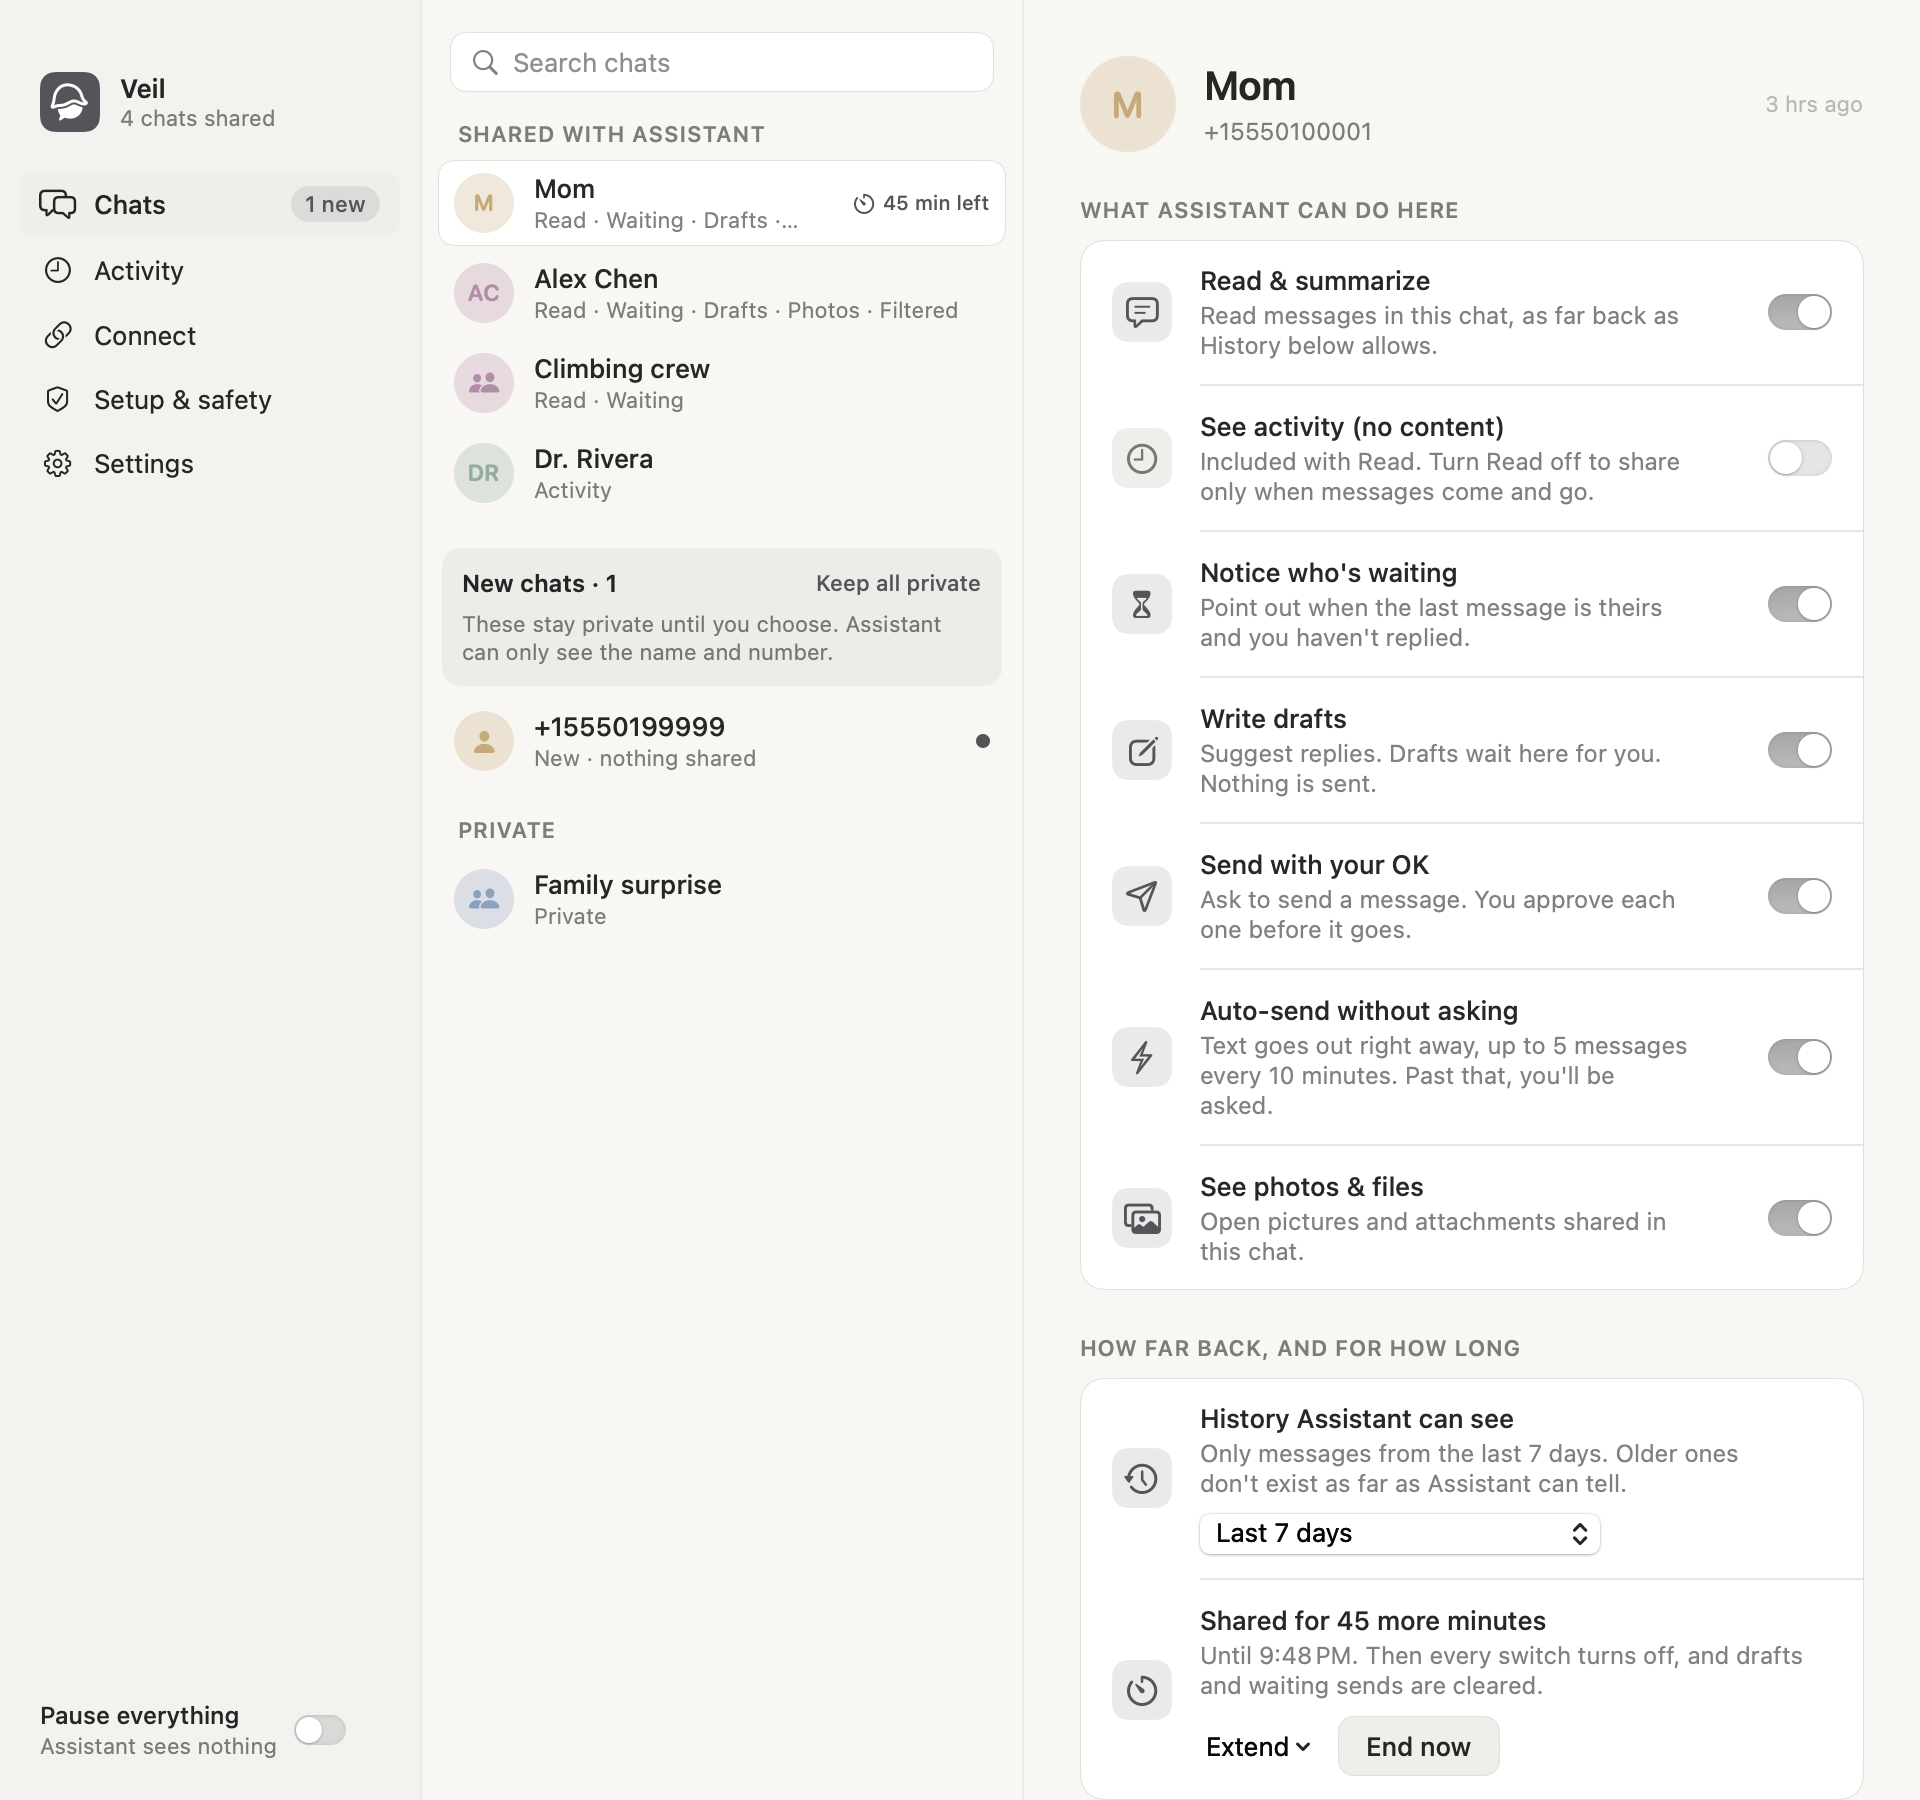
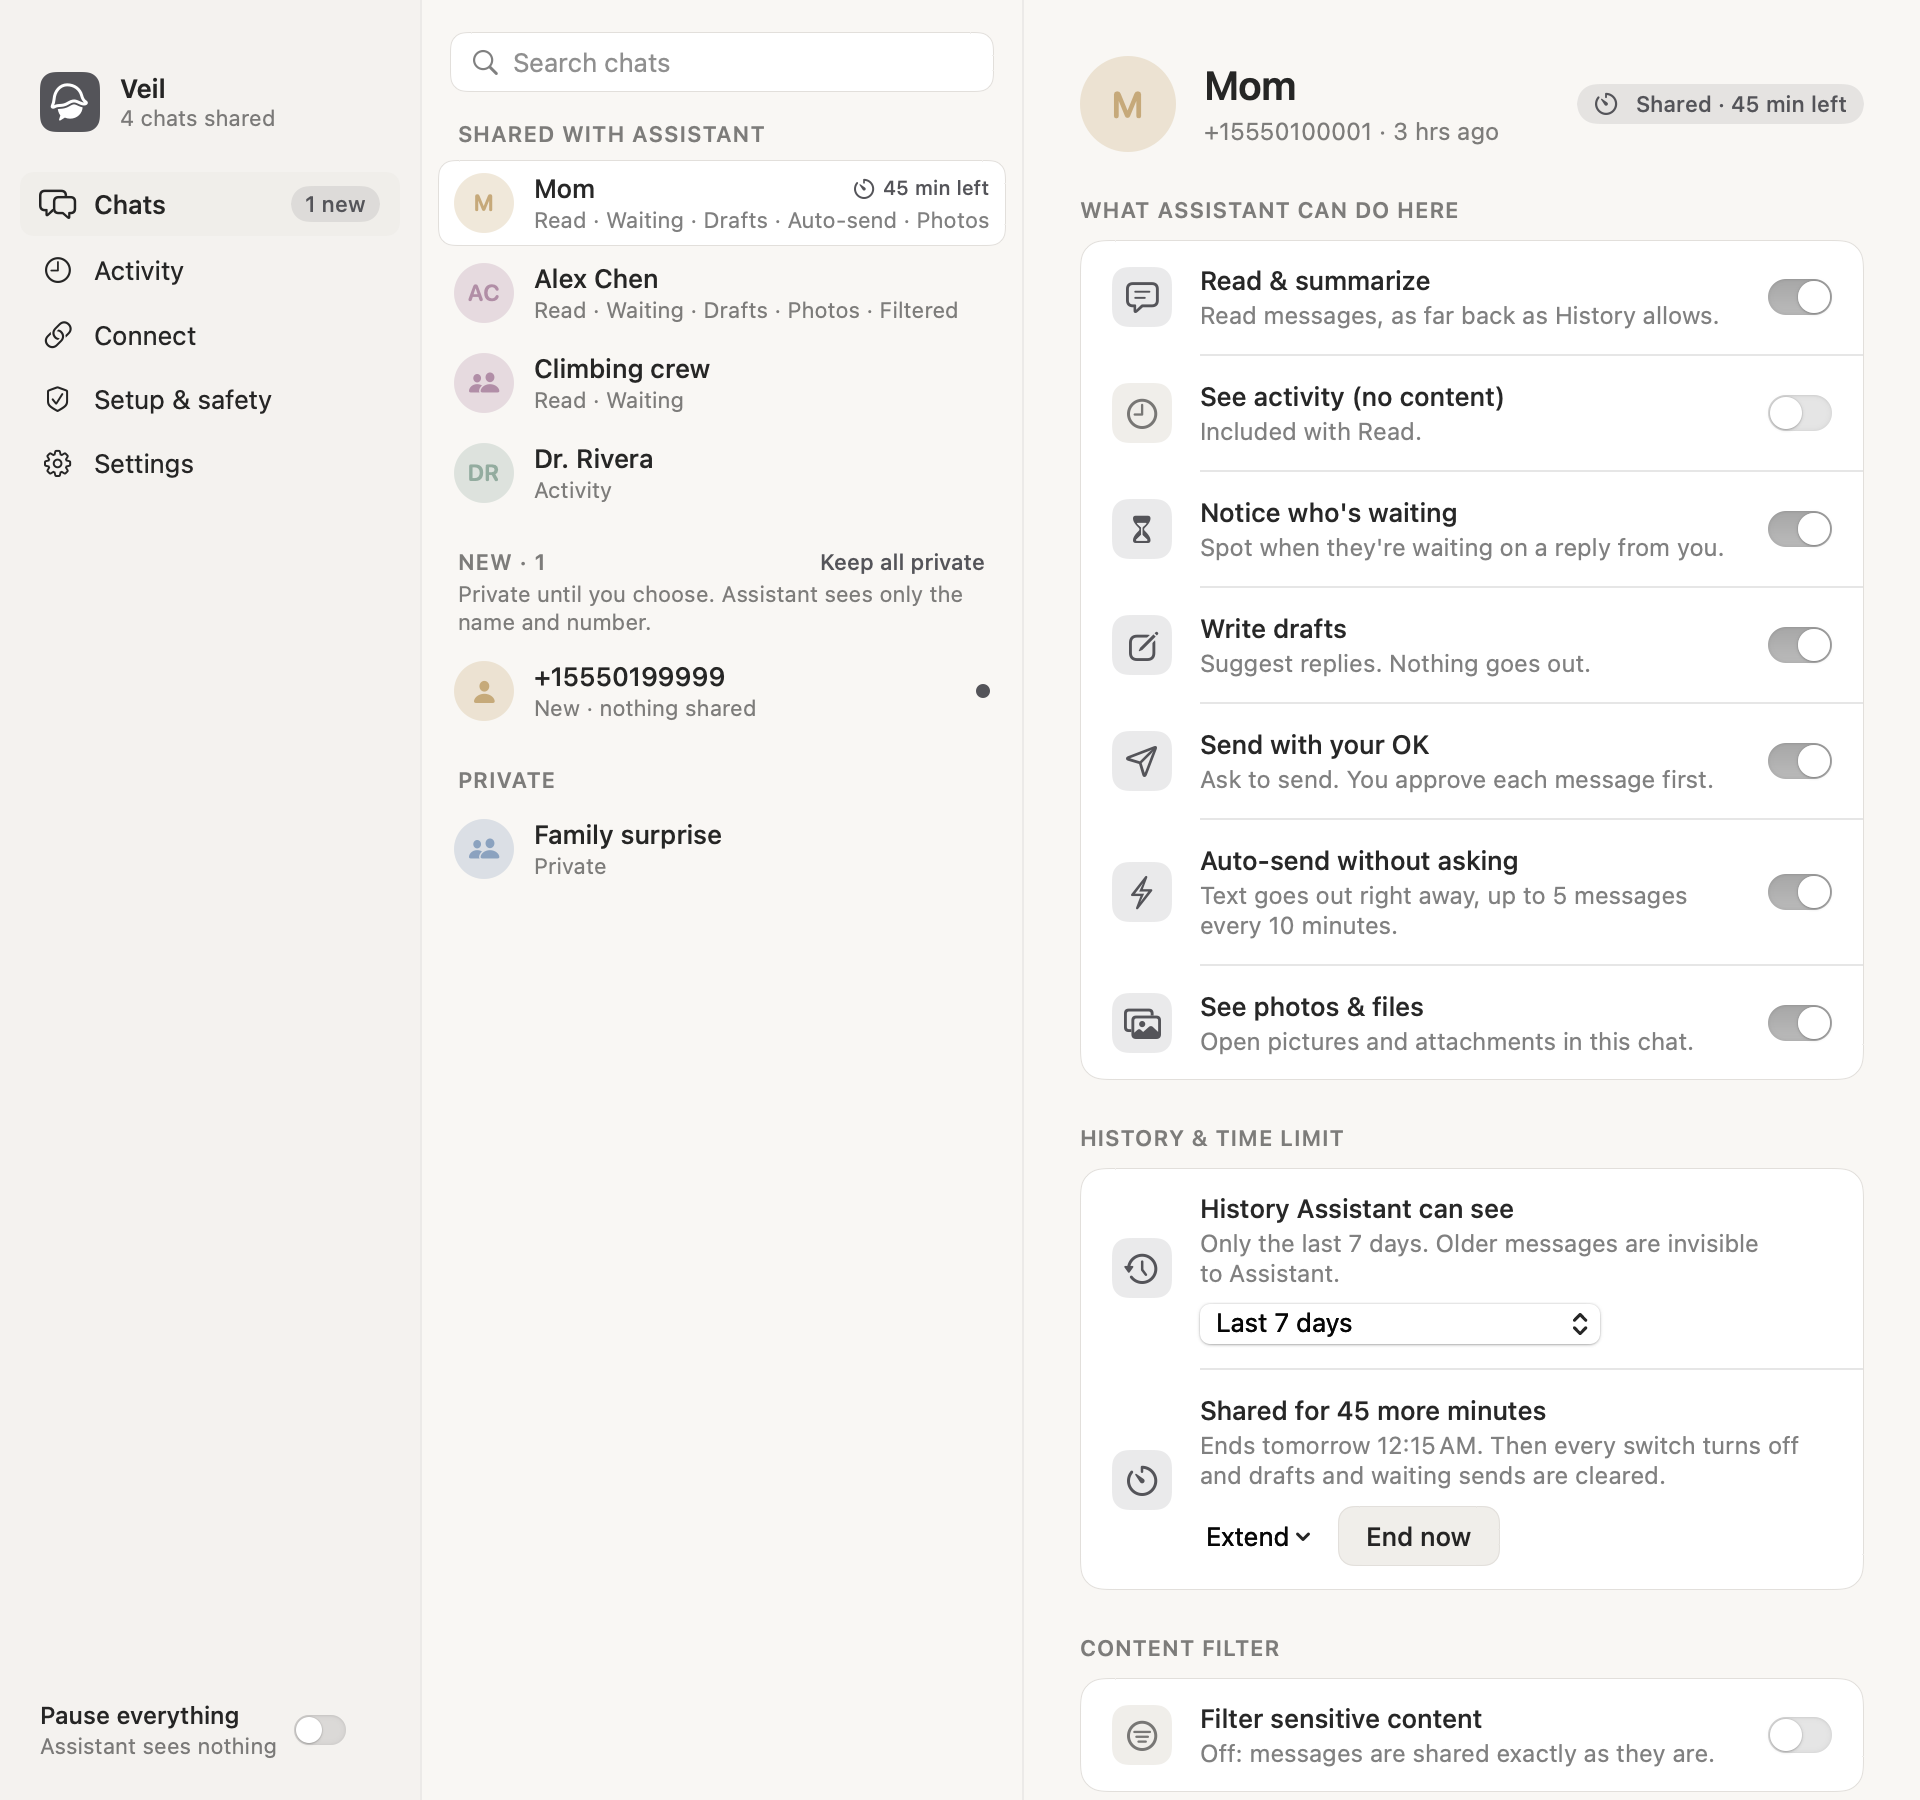
Docs: describe the calmer layout and refresh the screenshots

diff --git a/docs/guide.md b/docs/guide.md
@@ -28,7 +28,7 @@ Under the switches, two more settings decide how far back the assistant can read
 
 - **Claude Desktop** (`~/Library/Application Support/Claude/claude_desktop_config.json`) and **Cursor** (`~/.cursor/mcp.json`): Veil adds `mcpServers.veil` with this app's own `Contents/MacOS/veil-mcp` as the command. Before anything is written you see the file, the `veil` entry before and after, the other servers it keeps, and (if you want) the whole new file. Veil saves a timestamped backup next to the file first (`….veil-backup-YYYYMMDD-HHMMSS`), leaves every other key and server as it was, and writes through a symlink to the real file. The file is saved with standard JSON formatting, so spacing and key order may change. If the file isn't valid JSON, or changed after you reviewed it, Veil writes nothing and says so. Restart the client afterwards.
 - **Claude Code**: if the `claude` command is found (common install paths, then your login shell), Veil shows and then runs `claude mcp add --scope user veil -- <path to veil-mcp>` (*Fix* runs `claude mcp remove --scope user veil` first). Otherwise it shows the command to copy into a terminal. Status is read from `~/.claude.json`; Veil never edits that file itself. Start a new Claude Code session afterwards.
-- **Anything else**: copy the config shown below the buttons.
+- **Anything else**: open *Another app? Paste this into its MCP settings* below the buttons and copy the config.
 
 ## When an assistant has Full Disk Access
 
@@ -53,12 +53,12 @@ Assistants on the local web address can't be checked this way; Veil says "can't 
 
 ## Using the app
 
-- **Chats**: searchable list grouped into *New chats*, *Shared with …* (your assistant's name) and *Private*. Pick a chat to flip its switches. Changes apply on the next request.
+- **Chats**: searchable list grouped into *Shared with …* (your assistant's name), *New* and *Private*. Pick a chat to flip its switches. Changes apply on the next request. The top right of each chat's page shows where it stands: *Shared* (with the time left, if it has a time limit), *Private* or *Hidden*.
 - **New chats** stay locked until you choose; *Keep all private* clears the badge without sharing anything.
 - **Send prompts** float in the top-right corner (and show in the menu bar). *Send* goes through Messages; *Don't send* tells the assistant you declined.
 - **Drafts** appear in the menu bar with *Copy* and *Discard*.
 - **Pause everything** (menu bar or sidebar) blocks every tool immediately and cancels waiting sends.
-- **Activity** shows every request: time, assistant, action, chat, and a short summary of what was returned (never message text). Filter to *Blocked* to see refusals.
+- **Activity** shows every request: time, action, chat, and a short summary of what was returned (never message text). Once more than one assistant has connected, each row also names the assistant. Filter to *Blocked* to see refusals.
 
 ## Activity only (see when, not what)
 
@@ -81,7 +81,7 @@ The activity queries are separate from the message queries and never select text
 
 ## History and time limits (per chat)
 
-Two settings on each chat's page, under *How far back, and for how long*:
+Two settings on each chat's page, under *History & time limit*:
 
 <p align="center">
   <img src="screenshots/chats-time-limit.png" width="640" alt="A chat that shares the last 7 days, shared for 45 more minutes, with Extend and End now">
@@ -135,11 +135,11 @@ For chats you want the assistant to read, minus the sensitive bits. Everything i
   - **Withhold**: nothing is shared (`list_attachments` is refused, `get_attachment` says it isn't available, `read_chat` only counts them).
 
   Either way, a photo is shared only if *See photos & files* is on and **every** chat it appears in allows it, and an attachment on a withheld message stays hidden.
-- **Defaults:** pattern categories Mask, Apple Intelligence topics Withhold at Balanced, photos Check with every photo category Withhold. Change the default under *Settings → Content filter*, or give one chat its own settings with *Customize*. Settings you saved before Check existed keep their value (a saved default profile or a chat's own settings that said Withhold still say Withhold); only chats on the untouched standard settings move to Check.
+- **Defaults:** pattern categories Mask, Apple Intelligence topics Withhold at Balanced, photos Check with every photo category Withhold. Change the default under *Settings → Content filter*, or give one chat its own settings with *Customize*. In Settings the categories start folded into one summary line (*Show* opens them); the warnings for allowed codes and unchecked photos stay visible either way. Settings you saved before Check existed keep their value (a saved default profile or a chat's own settings that said Withhold still say Withhold); only chats on the untouched standard settings move to Check.
 - **Allowing PINs & verification codes** asks you to confirm and shows a warning while it's on: an assistant that can read one-time codes can sign in to your accounts.
 - **Everything is filtered**: message text, reply quotes, attachment names, `waiting_on_reply`'s `last_message`, `read_chat`, `search_messages`, `list_attachments` and `get_attachment`. Subject lines and link-preview titles aren't returned by any tool (link text is part of the message text and is filtered with it). `chat_activity` returns no content, so it's unchanged.
 - **Search** matches only the filtered text, so searching for a masked number or a withheld message finds nothing.
-- **Review (only you):** under the chat's switches, *Filtered recently* lists what was changed, why, and what the assistant sees, with **Allow this message** and **Always allow … here**. Photos held back appear there too, with a small thumbnail, the reason, and **Allow this photo**. These are saved in the signed settings like every other switch.
+- **Review (only you):** under the chat's switches, *Filtered recently* lists what was changed (the latest three, with *Show all*), why, and what the assistant sees, with **Allow this message** and **Always allow … here**. Photos held back appear there too, with a small thumbnail, the reason, and **Allow this photo**. These are saved in the signed settings like every other switch.
 - **Activity** logs counts only, for example "Returned 40 messages, 3 masked, 2 withheld". Never the text or the reasons.
 - Drafts, sending, auto-send and pings are unchanged. Pings were already content-free.
 
@@ -202,7 +202,7 @@ When a new incoming message lands in a chat that has **Read** or **See activity*
 That's all: no message text, no names, no attachments. `received_at` is the message's time. The assistant then
 looks through the normal MCP tools (`read_chat` or `chat_activity`), which apply your switches as usual.
 
-**Turn it on:** *Settings → New-message pings*.
+**Turn it on:** *Settings → New-message pings*. Until a webhook is filled in, its fields are folded behind **Set Up…**.
 
 1. Paste the **webhook address**. It must use `https://`; plain `http://` works only for `localhost`/`127.0.0.1`.
 2. Leave **Header** as `Authorization` to send `Authorization: Bearer <key>`, or enter another header name (for example `X-Routine-Key`) to send the key on its own.
@@ -235,7 +235,7 @@ By default only you change Veil's settings. If you'd rather say "share my climbi
 
 - **Off** (the default): the assistant has no settings tools at all. They aren't listed, and calling one gets the same answer as a tool that doesn't exist.
 - **Ask me**: the assistant can ask for a change. A prompt appears in the top-right corner and in the menu bar, for example "Assistant wants to change settings: Turn on Read for Mom; Turn on Auto-send for Mom (5 per 10 min)", with **Allow** and **Don't allow**.
-- **Apply directly**: changes happen right away. Veil asks you to confirm when you pick this, and shows a macOS notification for each change (under the same *Settings → Auto-send → Notify me* switch as auto-send).
+- **Apply directly**: changes happen right away. Veil asks you to confirm when you pick this, and shows a macOS notification for each change (under the same *Settings → Auto-send → Notify me* switch as auto-send). While it's on, the menu bar panel shows a quiet line saying so.
 
 This setting itself can only be changed in the app. It's signed in `permissions.json` with everything else; a hand-edited file locks everything as usual.
 
@@ -259,7 +259,7 @@ This setting itself can only be changed in the app. It's signed in `permissions.
 - Auto-send needs *Send* on for that chat. Asking for auto-send without it is refused, and turning *Send* off turns auto-send off, as in the app.
 - Turning a switch off purges drafts and waiting send requests for that chat, exactly as the app does.
 - The assistant can pause Veil, but once paused it can't do anything, including unpause. Only you can.
-- Changes the assistant makes don't count as you having looked at a chat, so a new chat it opened up stays under *New chats* until you do. Approving a request does count.
+- Changes the assistant makes don't count as you having looked at a chat, so a new chat it opened up stays under *New* until you do. Approving a request does count.
 - Unknown settings and wrong values are refused with a message, and nothing changes.
 
 **Prompts work like send prompts:** they never take keyboard focus, **Allow** only becomes clickable after a moment, each request can be allowed only once, at most 3 can wait at a time, and a request nobody answers expires after 10 minutes. When you click **Allow**, Veil checks again that settings changes are still on, Veil isn't paused or locked, and the chat still exists and isn't hidden, then applies the whole request in one go. The prompt names the assistant with the name you set; the name the assistant gives itself is only shown as "Asked by …", cleaned up.
@@ -288,7 +288,7 @@ The change tools return `status: "applied"` in *Apply directly*, `status: "pendi
 - **macOS updates** occasionally change the Messages database. If that happens, Veil fails closed: the assistant gets nothing, and the Chats screen says it couldn't read Messages. Your settings aren't touched.
 - **Your Keychain:** if it's locked or reset (or the signing key is missing while the settings file exists), Veil can't verify your settings, so it treats every chat as off and asks you to start fresh.
 - **Nothing piles up:** the access log rotates at about 4 MB, drafts are capped (10 per chat, 50 total), and finished send requests are forgotten after an hour. Drafts and waiting sends are held only in memory, so they're gone after a restart.
-- **New chats** show up within a minute, locked, under *New chats*.
+- **New chats** show up within a minute, locked, under *New*.
 
 ## Upgrading from MessagesGate
 
